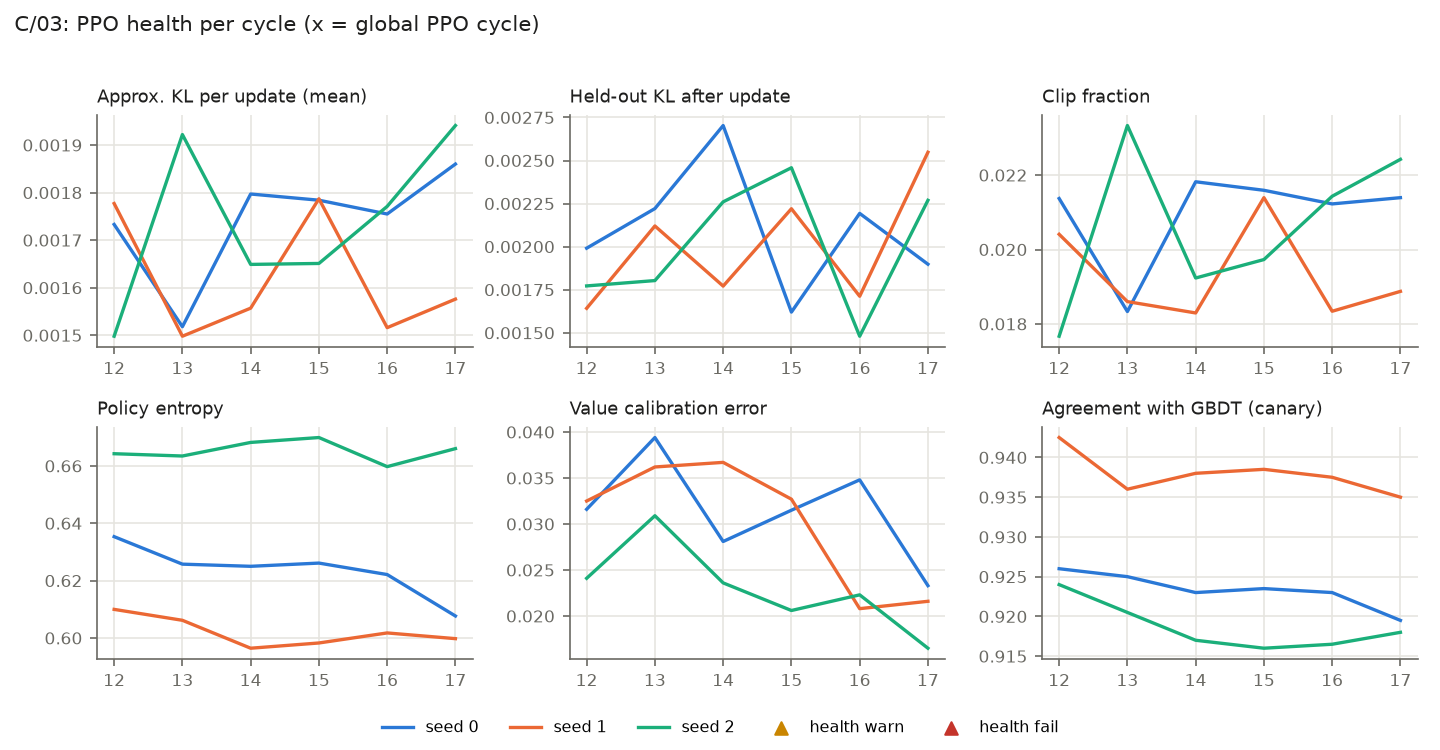
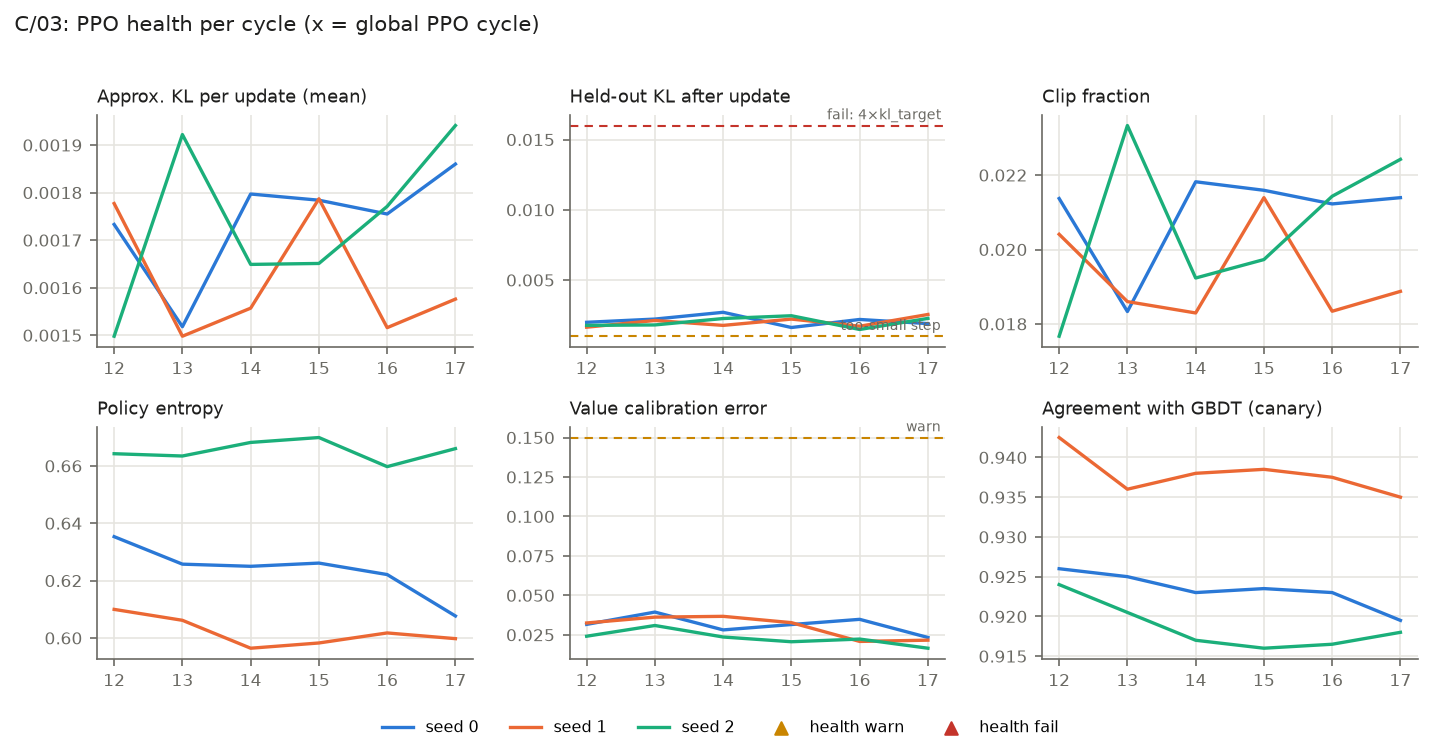
Health figures: status matrix of all 91 PPO cycles; threshold lines on per-experiment health panels

diff --git a/src/ptcg_exp/figures.py b/src/ptcg_exp/figures.py
@@ -64,6 +64,11 @@ HEALTH = [
     ("teacher_agreement", "Agreement with GBDT (canary)"),
 ]
 Row = dict[str, str]
+# Health thresholds drawn on the panels (src/ptcg_exp/health.py defaults; kl_target = 0.004).
+THRESHOLDS = {
+    "heldout_kl": [(0.001, "too-small step"), (0.016, "fail: 4×kl_target")],
+    "value_ece": [(0.15, "warn")],
+}
 
 
 def _read(path: Path) -> list[Row]:
@@ -237,6 +242,20 @@ def health(cycles: list[Row], experiment: str, path: Path) -> bool:
                         color=WARN if r["health_status"] == "warn" else BAD,
                         zorder=3,
                     )
+        for y, label in THRESHOLDS.get(key, []):
+            ax.axhline(
+                y, color=BAD if "fail" in label else WARN, linestyle=(0, (4, 3)), linewidth=1
+            )
+            ax.annotate(
+                label,
+                (1, y),
+                xycoords=("axes fraction", "data"),
+                xytext=(-2, 3),
+                textcoords="offset points",
+                ha="right",
+                fontsize=6.5,
+                color=MUTED,
+            )
         ax.set_title(title, fontsize=8.5, color=INK, loc="left")
         _style(ax)
     axes.flat[0].scatter([], [], marker="^", s=36, color=WARN, label="health warn")
@@ -257,6 +276,78 @@ def health(cycles: list[Row], experiment: str, path: Path) -> bool:
     fig.savefig(path)
     plt.close(fig)
     return True
+
+
+def health_matrix(runs_dir: Path, path: Path) -> None:
+    """Status of every PPO cycle (rows: run, columns: global cycle), labelled with non-pass checks."""
+    import json
+
+    starts = {"C-ppo_baseline": 0, "C-ppo_continue": 12, "C-ppo_league": 12}
+    names = {
+        "C-ppo_baseline_klstop": "C/01b",
+        "C-ppo_baseline": "C/01",
+        "C-ppo_continue": "C/03",
+        "C-ppo_league_pfsp": "C/05",
+        "C-ppo_league": "C/04",
+    }
+    rows: list[tuple[str, dict[int, tuple[str, list[str]]]]] = []
+    for run in sorted(runs_dir.iterdir()):
+        prefix = next((p for p in names if run.name.startswith(p + "-")), None)
+        if prefix is None or not (run / "ppo").exists():
+            continue
+        start = next(v for k, v in starts.items() if prefix.startswith(k))
+        seed = run.name.split("-s")[-1].split("-")[0]
+        cells: dict[int, tuple[str, list[str]]] = {}
+        for h in sorted((run / "ppo").glob("cycle-*/health.json")):
+            d = json.loads(h.read_text())
+            bad = [c["check"] for c in d["checks"] if c["status"] != "pass"]
+            cells[start + int(h.parent.name.split("-")[1])] = (d["status"], bad)
+        if cells:
+            rows.append((f"{names[prefix]} s{seed}", cells))
+    order = ["C/01 ", "C/01b", "C/03", "C/04", "C/05"]
+    rows.sort(key=lambda r: (next(i for i, o in enumerate(order) if r[0].startswith(o)), r[0]))
+    ncyc = max(c for _, cells in rows for c in cells) + 1
+    color = {"pass": "#cfe8d8", "warn": "#f6d58a", "fail": "#ef9a93"}
+    short = {
+        "value_calibration_ece": "ECE",
+        "heldout_kl": "hKL",
+        "approx_kl_per_update": "KL",
+        "gradient_spike": "grad",
+    }
+    fig, ax = plt.subplots(figsize=(10.5, 0.36 * len(rows) + 1.6), dpi=150)
+    for i, (label, cells) in enumerate(rows):
+        for c, (status, bad) in cells.items():
+            ax.add_patch(plt.Rectangle((c, i), 0.94, 0.86, color=color[status], linewidth=0))
+            if bad:
+                text = ",".join(short.get(b, b[:4]) for b in bad)
+                ax.text(c + 0.47, i + 0.43, text, ha="center", va="center", fontsize=5.5, color=INK)
+    ax.set_xlim(0, ncyc)
+    ax.set_ylim(len(rows), 0)
+    ax.set_yticks([i + 0.43 for i in range(len(rows))], [r[0] for r in rows], fontsize=8, color=INK)
+    ax.set_xticks(
+        [c + 0.47 for c in range(ncyc)], [str(c) for c in range(ncyc)], fontsize=7, color=MUTED
+    )
+    ax.set_xlabel(
+        "global PPO cycle (C/03–C/05 continue from C/01 cycle 11)", fontsize=8.5, color=MUTED
+    )
+    for s in ("top", "right", "left", "bottom"):
+        ax.spines[s].set_visible(False)
+    ax.tick_params(length=0)
+    for st, col in color.items():
+        ax.scatter([], [], marker="s", s=60, color=col, label=st)
+    ax.legend(loc="lower right", bbox_to_anchor=(1, 1.0), ncol=3, fontsize=7.5, frameon=False)
+    total = sum(len(c) for _, c in rows)
+    counts = {s: sum(1 for _, c in rows for st, _ in c.values() if st == s) for s in color}
+    ax.set_title(
+        f"PPO health per cycle: {total} cycles — {counts['pass']} pass, {counts['warn']} warn, "
+        f"{counts['fail']} fail (label = check that did not pass)",
+        fontsize=9.5,
+        color=INK,
+        loc="left",
+    )
+    fig.tight_layout()
+    fig.savefig(path)
+    plt.close(fig)
 
 
 def overview(pairs: list[Row], path: Path) -> None:
@@ -348,6 +439,8 @@ def main() -> None:
                 written.append(f"{sub}/learning_curve.png")
             if health(cycles, exp, out / "health.png"):
                 written.append(f"{sub}/health.png")
+    health_matrix(reports / "runs", reports / "health_matrix.png")
+    written.append("health_matrix.png")
     overview(pairs, reports / "overview.png")
     written.append("overview.png")
     print("\n".join(written))

diff --git a/reports/README.md b/reports/README.md
@@ -7,6 +7,7 @@ Everything here is generated from the cluster runs and committed; nothing needs 
 | [`overview.png`](overview.png) | every arm's pooled win rate (95% CI) vs. its start, the rule bots and the held-out GBDTs |
 | `<A\|C>/<experiment>/winrates.png` | one experiment: win rate of its final model vs. each opponent, per seed and pooled |
 | `C/<experiment>/learning_curve.png` | rating above the Lucario rule bot by PPO cycle, per seed |
+| [`health_matrix.png`](health_matrix.png) | status of every PPO cycle (91): pass / warn / fail, labelled with the check that didn't pass |
 | `C/<experiment>/health.png` | PPO health per cycle (KL, held-out KL, clip fraction, entropy, value calibration, teacher agreement) |
 | [`A/01_gbdt_data_scale/data_scale.png`](A/01_gbdt_data_scale/data_scale.png) | A/01 data-scale curve |
 | [`results/`](results) | tidy CSVs behind the figures: `pairs.csv` (head-to-head), `ratings.csv` (BT ratings), `cycles.csv` (PPO health) |
